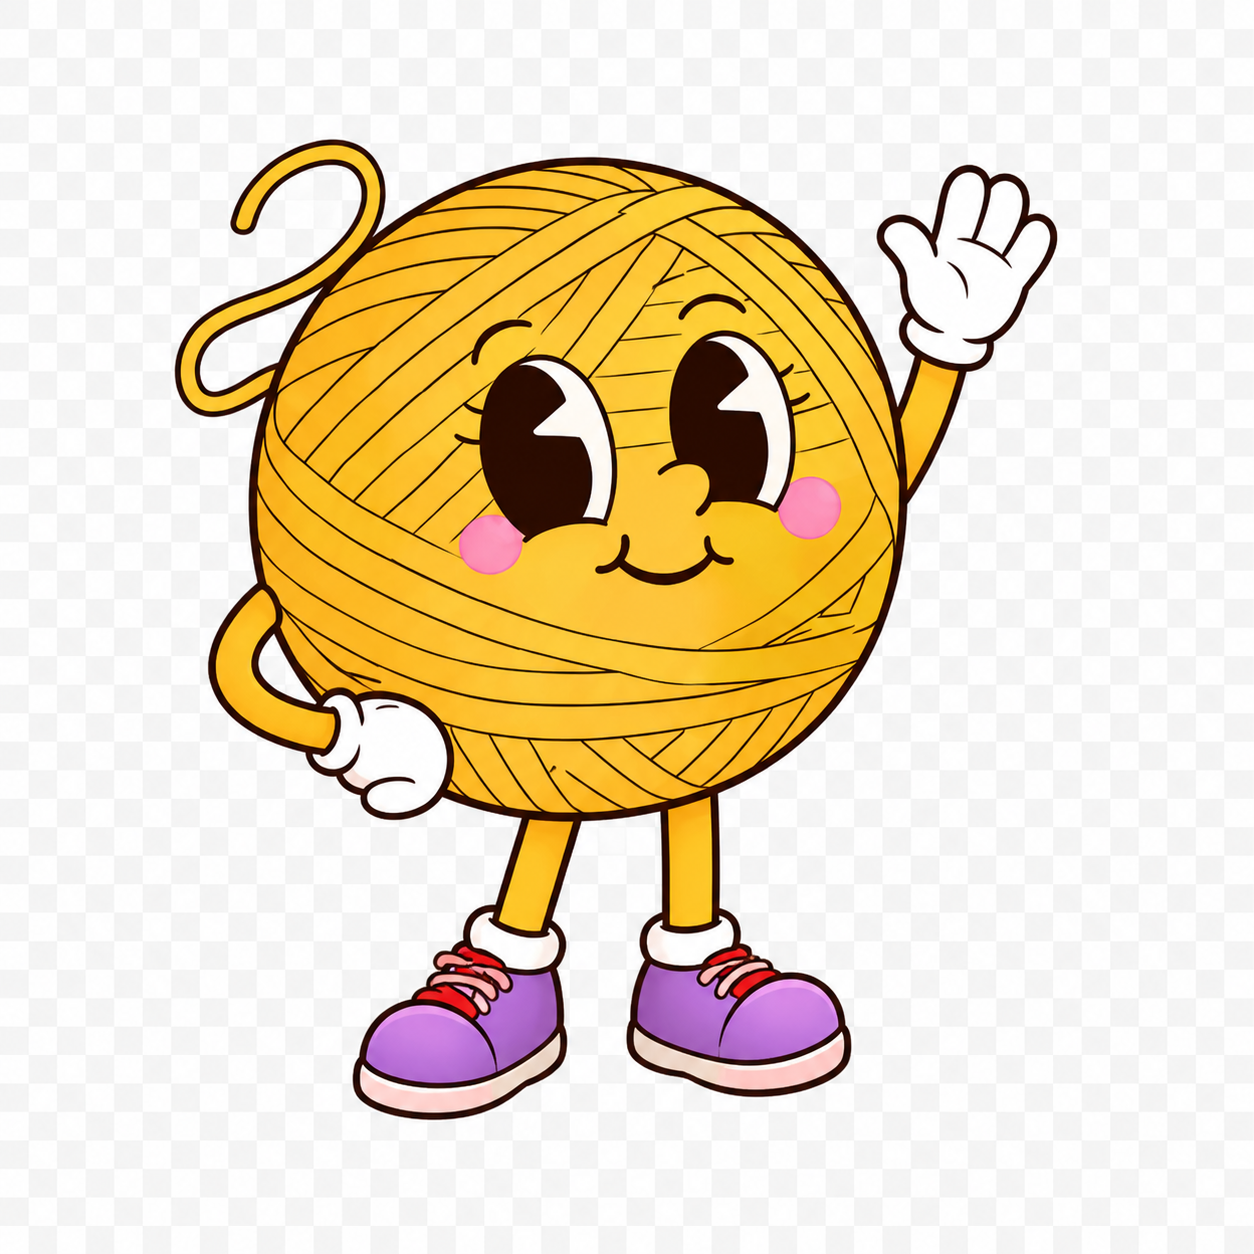
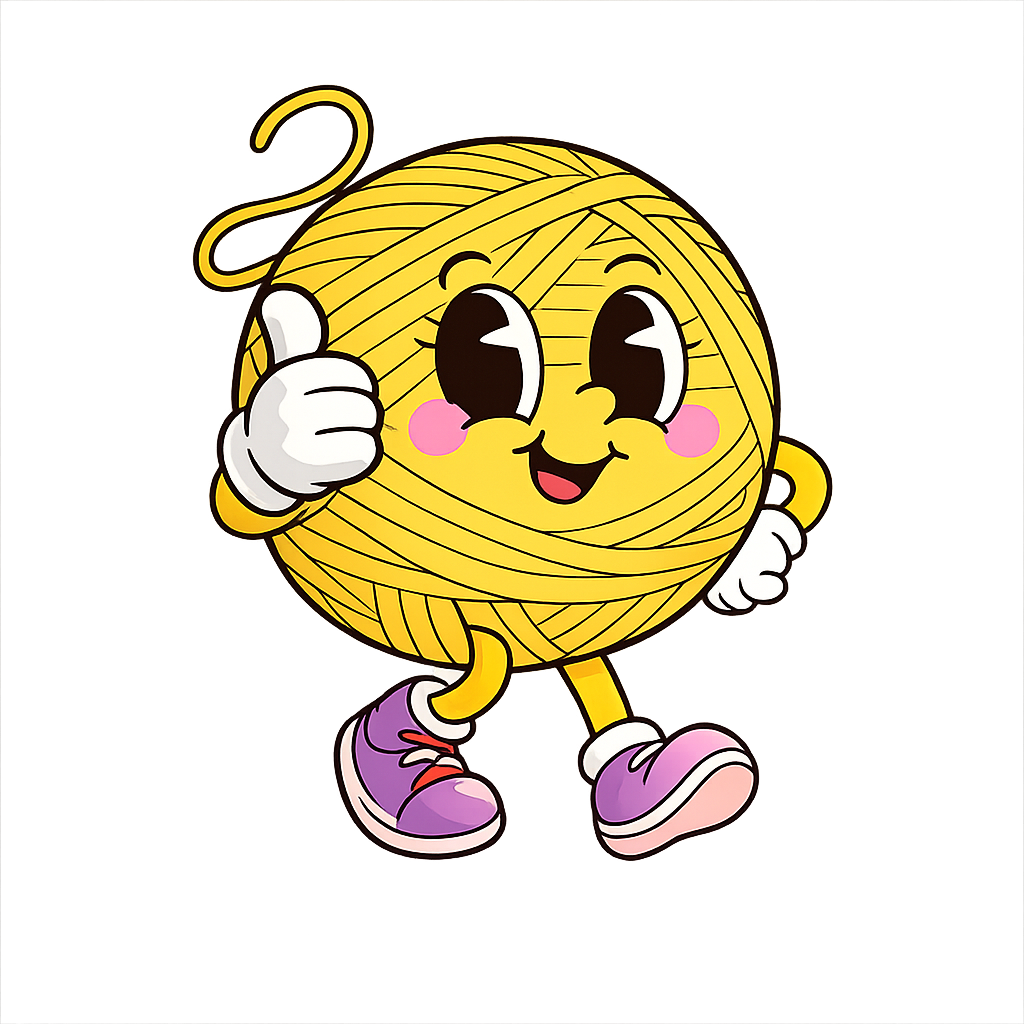
fix

Changed region(s): [[0.125, 0.0625, 0.8438, 0.9062], [0.7812, 0.25, 0.8125, 0.2812]]

diff --git a/src/app/(public)/contacto/page.tsx b/src/app/(public)/contacto/page.tsx
@@ -8,11 +8,10 @@ export default function ContactPage() {
         <div className="flex flex-col min-h-screen text-[#344054]">
             {/* HERO */}
             <section className="relative overflow-hidden pt-12 pb-20 md:pt-20 md:pb-28">
-                {/* Diagonal geometric background */}
-                <div 
-                    className="absolute inset-0 z-0" 
-                    style={{ background: 'linear-gradient(105deg, #F58EAA 50%, #E3B4FF 50.1%)' }}
-                ></div>
+                {/* Background Image */}
+                <div className="absolute inset-0 z-0">
+                    <Image src="/images/home-bg.png" alt="Fondo" fill className="object-cover object-center" priority />
+                </div>
 
                 {/* Sparkles */}
                 <div className="absolute top-10 left-[10%] text-white opacity-80">
@@ -42,7 +41,7 @@ export default function ContactPage() {
                                     href="https://wa.me/123456789" 
                                     className="inline-flex items-center justify-center gap-2 bg-[#E4072F] text-white px-6 py-3 rounded-full font-bold transition-transform hover:scale-105 shadow-md"
                                 >
-                                    <svg xmlns="http://www.w3.org/2000/svg" className="h-5 w-5" fill="currentColor" viewBox="0 0 24 24"><path d="M.057 24l1.687-6.163c-1.041-1.804-1.588-3.849-1.587-5.946.003-6.556 5.338-11.891 11.893-11.891 3.181.001 6.167 1.24 8.413 3.488 2.245 2.248 3.481 5.236 3.48 8.414-.003 6.557-5.338 11.892-11.893 11.892-1.99-.001-3.951-.5-5.688-1.448l-6.305 1.654zm6.597-3.807c1.676.995 3.276 1.591 5.392 1.592 5.448 0 9.886-4.438 9.889-9.886.002-5.462-4.415-9.89-9.881-9.892-5.452 0-9.887 4.434-9.889 9.884 0 2.225.569 3.846 1.74 5.865l-.997 3.637 3.746-.983zm11.567-7.647c-.074-.123-.272-.198-.57-.347-.297-.149-1.758-.868-2.031-.967-.272-.099-.47-.149-.669.149-.198.297-.768.967-.941 1.165-.173.198-.347.223-.644.074-.297-.149-1.255-.462-2.39-1.475-.883-.788-1.48-1.761-1.653-2.059-.173-.297-.018-.458.13-.606.134-.133.298-.347.446-.52.149-.174.198-.298.298-.497.099-.198.05-.372-.025-.521-.075-.148-.669-1.611-.916-2.206-.242-.579-.487-.501-.669-.51l-.57-.01c-.198 0-.52.074-.792.372s-1.04 1.016-1.04 2.479 1.065 2.876 1.213 3.074c.149.198 2.095 3.2 5.076 4.487.709.306 1.263.489 1.694.626.712.226 1.36.194 1.872.118.571-.085 1.758-.719 2.006-1.413.248-.694.248-1.289.173-1.413z" /></svg>
+                                    <svg xmlns="http://www.w3.org/2000/svg" className="h-5 w-5" fill="currentColor" viewBox="0 0 24 24"><path d="M17.472 14.382c-.297-.149-1.758-.867-2.03-.967-.273-.099-.471-.148-.67.15-.197.297-.767.966-.94 1.164-.173.199-.347.223-.644.075-.297-.15-1.255-.463-2.39-1.475-.883-.788-1.48-1.761-1.653-2.059-.173-.297-.018-.458.13-.606.134-.133.298-.347.446-.52.149-.174.198-.298.298-.497.099-.198.05-.371-.025-.52-.075-.149-.669-1.612-.916-2.207-.242-.579-.487-.5-.669-.51-.173-.008-.371-.01-.57-.01-.198 0-.52.074-.792.372-.272.297-1.04 1.016-1.04 2.479 0 1.462 1.065 2.875 1.213 3.074.149.198 2.096 3.2 5.077 4.487.709.306 1.262.489 1.694.625.712.227 1.36.195 1.871.118.571-.085 1.758-.719 2.006-1.413.248-.694.248-1.289.173-1.413-.074-.124-.272-.198-.57-.347m-5.421 7.403h-.004a9.87 9.87 0 01-5.031-1.378l-.361-.214-3.741.982.998-3.648-.235-.374a9.86 9.86 0 01-1.51-5.26c.001-5.45 4.436-9.884 9.888-9.884 2.64 0 5.122 1.03 6.988 2.898a9.825 9.825 0 012.893 6.994c-.003 5.45-4.437 9.884-9.885 9.884m8.413-18.297A11.815 11.815 0 0012.05 0C5.495 0 .16 5.335.157 11.892c0 2.096.547 4.142 1.588 5.945L.057 24l6.305-1.654a11.882 11.882 0 005.683 1.448h.005c6.554 0 11.89-5.335 11.893-11.893a11.821 11.821 0 00-3.48-8.413z" /></svg>
                                     Escribir por WhatsApp
                                 </a>
                                 <a 
@@ -98,12 +97,12 @@ export default function ContactPage() {
 
                     <div className="flex flex-col md:flex-row justify-center gap-8 max-w-4xl mx-auto">
                         {/* WhatsApp Card */}
-                        <div className="bg-white border border-[#F3D7E4] rounded-[28px] p-8 md:p-10 shadow-sm flex flex-col items-center text-center flex-1 relative overflow-hidden group">
+                        <div className="bg-white border border-[#F3D7E4] rounded-[28px] p-8 md:p-10 shadow-sm flex flex-col items-center text-center flex-1 relative group mt-4 md:mt-0">
                             {/* Decorative Tape */}
-                            <div className="absolute top-0 left-1/2 -translate-x-1/2 -translate-y-1/2 w-16 h-6 bg-[#F58EAA] opacity-50 transform -rotate-2"></div>
+                            <div className="absolute -top-3 left-1/2 -translate-x-1/2 w-16 h-6 bg-[#F58EAA] opacity-50 transform -rotate-2 z-10"></div>
                             
                             <div className="w-16 h-16 bg-[#E4072F] rounded-full flex items-center justify-center text-white mb-6 group-hover:scale-110 transition-transform">
-                                <svg xmlns="http://www.w3.org/2000/svg" className="h-8 w-8" fill="currentColor" viewBox="0 0 24 24"><path d="M.057 24l1.687-6.163c-1.041-1.804-1.588-3.849-1.587-5.946.003-6.556 5.338-11.891 11.893-11.891 3.181.001 6.167 1.24 8.413 3.488 2.245 2.248 3.481 5.236 3.48 8.414-.003 6.557-5.338 11.892-11.893 11.892-1.99-.001-3.951-.5-5.688-1.448l-6.305 1.654zm6.597-3.807c1.676.995 3.276 1.591 5.392 1.592 5.448 0 9.886-4.438 9.889-9.886.002-5.462-4.415-9.89-9.881-9.892-5.452 0-9.887 4.434-9.889 9.884 0 2.225.569 3.846 1.74 5.865l-.997 3.637 3.746-.983zm11.567-7.647c-.074-.123-.272-.198-.57-.347-.297-.149-1.758-.868-2.031-.967-.272-.099-.47-.149-.669.149-.198.297-.768.967-.941 1.165-.173.198-.347.223-.644.074-.297-.149-1.255-.462-2.39-1.475-.883-.788-1.48-1.761-1.653-2.059-.173-.297-.018-.458.13-.606.134-.133.298-.347.446-.52.149-.174.198-.298.298-.497.099-.198.05-.372-.025-.521-.075-.148-.669-1.611-.916-2.206-.242-.579-.487-.501-.669-.51l-.57-.01c-.198 0-.52.074-.792.372s-1.04 1.016-1.04 2.479 1.065 2.876 1.213 3.074c.149.198 2.095 3.2 5.076 4.487.709.306 1.263.489 1.694.626.712.226 1.36.194 1.872.118.571-.085 1.758-.719 2.006-1.413.248-.694.248-1.289.173-1.413z" /></svg>
+                                <svg xmlns="http://www.w3.org/2000/svg" className="h-8 w-8" fill="currentColor" viewBox="0 0 24 24"><path d="M17.472 14.382c-.297-.149-1.758-.867-2.03-.967-.273-.099-.471-.148-.67.15-.197.297-.767.966-.94 1.164-.173.199-.347.223-.644.075-.297-.15-1.255-.463-2.39-1.475-.883-.788-1.48-1.761-1.653-2.059-.173-.297-.018-.458.13-.606.134-.133.298-.347.446-.52.149-.174.198-.298.298-.497.099-.198.05-.371-.025-.52-.075-.149-.669-1.612-.916-2.207-.242-.579-.487-.5-.669-.51-.173-.008-.371-.01-.57-.01-.198 0-.52.074-.792.372-.272.297-1.04 1.016-1.04 2.479 0 1.462 1.065 2.875 1.213 3.074.149.198 2.096 3.2 5.077 4.487.709.306 1.262.489 1.694.625.712.227 1.36.195 1.871.118.571-.085 1.758-.719 2.006-1.413.248-.694.248-1.289.173-1.413-.074-.124-.272-.198-.57-.347m-5.421 7.403h-.004a9.87 9.87 0 01-5.031-1.378l-.361-.214-3.741.982.998-3.648-.235-.374a9.86 9.86 0 01-1.51-5.26c.001-5.45 4.436-9.884 9.888-9.884 2.64 0 5.122 1.03 6.988 2.898a9.825 9.825 0 012.893 6.994c-.003 5.45-4.437 9.884-9.885 9.884m8.413-18.297A11.815 11.815 0 0012.05 0C5.495 0 .16 5.335.157 11.892c0 2.096.547 4.142 1.588 5.945L.057 24l6.305-1.654a11.882 11.882 0 005.683 1.448h.005c6.554 0 11.89-5.335 11.893-11.893a11.821 11.821 0 00-3.48-8.413z" /></svg>
                             </div>
                             <h3 className="text-2xl font-bold text-[#12192C] mb-3">WhatsApp</h3>
                             <p className="text-[#7A7F8C] mb-8 leading-relaxed">
@@ -115,9 +114,9 @@ export default function ContactPage() {
                         </div>
 
                         {/* Instagram Card */}
-                        <div className="bg-white border border-[#F3D7E4] rounded-[28px] p-8 md:p-10 shadow-sm flex flex-col items-center text-center flex-1 relative overflow-hidden group">
+                        <div className="bg-white border border-[#F3D7E4] rounded-[28px] p-8 md:p-10 shadow-sm flex flex-col items-center text-center flex-1 relative group mt-4 md:mt-0">
                             {/* Decorative Tape */}
-                            <div className="absolute top-0 left-1/2 -translate-x-1/2 -translate-y-1/2 w-16 h-6 bg-[#E3B4FF] opacity-50 transform rotate-2"></div>
+                            <div className="absolute -top-3 left-1/2 -translate-x-1/2 w-16 h-6 bg-[#E3B4FF] opacity-50 transform rotate-2 z-10"></div>
                             
                             <div className="w-16 h-16 bg-[#E4072F] rounded-full flex items-center justify-center text-white mb-6 group-hover:scale-110 transition-transform">
                                 <svg xmlns="http://www.w3.org/2000/svg" className="h-8 w-8" fill="currentColor" viewBox="0 0 24 24"><path d="M12 2.163c3.204 0 3.584.012 4.85.07 3.252.148 4.771 1.691 4.919 4.919.058 1.265.069 1.645.069 4.849 0 3.205-.012 3.584-.069 4.849-.149 3.225-1.664 4.771-4.919 4.919-1.266.058-1.644.07-4.85.07-3.204 0-3.584-.012-4.849-.07-3.26-.149-4.771-1.699-4.919-4.92-.058-1.265-.07-1.644-.07-4.849 0-3.204.013-3.583.07-4.849.149-3.227 1.664-4.771 4.919-4.919 1.266-.057 1.645-.069 4.849-.069zm0-2.163c-3.259 0-3.667.014-4.947.072-4.358.2-6.78 2.618-6.98 6.98-.059 1.281-.073 1.689-.073 4.948 0 3.259.014 3.668.072 4.948.2 4.358 2.618 6.78 6.98 6.98 1.281.058 1.689.072 4.948.072 3.259 0 3.668-.014 4.948-.072 4.354-.2 6.782-2.618 6.979-6.98.059-1.28.073-1.689.073-4.948 0-3.259-.014-3.667-.072-4.947-.196-4.354-2.617-6.78-6.979-6.98-1.281-.059-1.69-.073-4.949-.073zm0 5.838c-3.403 0-6.162 2.759-6.162 6.162s2.759 6.163 6.162 6.163 6.162-2.759 6.162-6.163c0-3.403-2.759-6.162-6.162-6.162zm0 10.162c-2.209 0-4-1.79-4-4 0-2.209 1.791-4 4-4s4 1.791 4 4c0 2.21-1.791 4-4 4zm6.406-11.845c-.796 0-1.441.645-1.441 1.44s.645 1.44 1.441 1.44c.795 0 1.439-.645 1.439-1.44s-.644-1.44-1.439-1.44z"/></svg>
@@ -146,23 +145,27 @@ export default function ContactPage() {
 
                     <div className="flex flex-col lg:flex-row gap-8 max-w-5xl mx-auto">
                         {/* Checklist */}
-                        <div className="bg-white border border-[#F3D7E4] rounded-[28px] p-8 md:p-10 shadow-sm flex-1 relative overflow-hidden">
-                            <h3 className="text-xl font-bold text-[#12192C] mb-6">Podés escribirnos para:</h3>
-                            <ul className="space-y-4 relative z-10">
-                                {['Pedidos', 'Consultas', 'Disponibilidad', 'Personalizaciones', 'Coordinación de compra'].map((item, i) => (
-                                    <li key={i} className="flex items-center gap-3">
-                                        <div className="w-6 h-6 bg-[#E4072F] rounded-full flex items-center justify-center flex-shrink-0">
-                                            <svg className="w-4 h-4 text-white" fill="none" viewBox="0 0 24 24" stroke="currentColor">
-                                                <path strokeLinecap="round" strokeLinejoin="round" strokeWidth={3} d="M5 13l4 4L19 7" />
-                                            </svg>
-                                        </div>
-                                        <span className="text-[#344054] font-medium">{item}</span>
-                                    </li>
-                                ))}
-                            </ul>
-                            
-                            {/* Subtle texture in corner */}
-                            <div className="absolute -bottom-10 -right-10 opacity-30 w-48 h-48 pointer-events-none rounded-full blur-xl bg-[#F58EAA]"></div>
+                        <div className="bg-white border border-[#F3D7E4] rounded-[28px] p-8 md:p-10 shadow-sm flex-1 relative overflow-hidden flex flex-col justify-center">
+                            {/* Background Image */}
+                            <div className="absolute inset-0 z-0">
+                                <Image src="/images/fondo_card_contacto.png" alt="" fill className="object-cover object-bottom opacity-40" />
+                            </div>
+
+                            <div className="relative z-10">
+                                <h3 className="text-xl font-bold text-[#12192C] mb-6">Podés escribirnos para:</h3>
+                                <ul className="space-y-4">
+                                    {['Pedidos', 'Consultas', 'Disponibilidad', 'Personalizaciones', 'Coordinación de compra'].map((item, i) => (
+                                        <li key={i} className="flex items-center gap-3">
+                                            <div className="w-6 h-6 bg-[#E4072F] rounded-full flex items-center justify-center flex-shrink-0">
+                                                <svg className="w-4 h-4 text-white" fill="none" viewBox="0 0 24 24" stroke="currentColor">
+                                                    <path strokeLinecap="round" strokeLinejoin="round" strokeWidth={3} d="M5 13l4 4L19 7" />
+                                                </svg>
+                                            </div>
+                                            <span className="text-[#344054] font-medium">{item}</span>
+                                        </li>
+                                    ))}
+                                </ul>
+                            </div>
                         </div>
 
                         {/* FAQ */}
@@ -174,12 +177,11 @@ export default function ContactPage() {
                                     { q: '¿Hacen pedidos personalizados?', a: 'Sí, podés escribirnos y contarnos tu idea.' },
                                     { q: '¿Dónde veo novedades?', a: 'En Instagram compartimos trabajos recientes y novedades.' }
                                 ].map((item, i) => (
-                                    <div key={i} className="bg-white border-2 border-[#111111] rounded-[16px] p-4 shadow-[3px_3px_0px_0px_rgba(17,17,17,1)] flex gap-4 cursor-pointer hover:-translate-y-1 transition-transform">
+                                    <div key={i} className="bg-white border-2 border-[#111111] rounded-[16px] p-4 shadow-[3px_3px_0px_0px_rgba(17,17,17,1)] flex gap-4">
                                         <div className="flex-1">
                                             <h4 className="font-bold text-[#12192C] mb-1">{item.q}</h4>
                                             <p className="text-sm text-[#7A7F8C] leading-snug">{item.a}</p>
                                         </div>
-                                        <div className="flex-shrink-0 text-[#E4072F] font-bold text-xl pt-1">+</div>
                                     </div>
                                 ))}
                             </div>
@@ -189,7 +191,7 @@ export default function ContactPage() {
             </div>
 
             {/* CTA FINAL */}
-            <section className="relative overflow-hidden bg-[#E3B4FF] py-16 flex items-center justify-center border-t border-[#F3D7E4]">
+            <section className="relative overflow-hidden bg-[#E3B4FF] py-10 md:py-12 flex items-center justify-center border-t border-[#F3D7E4]">
                 {/* Diagonal blocks */}
                 <div 
                     className="absolute inset-0 z-0" 
@@ -204,25 +206,27 @@ export default function ContactPage() {
                     <svg width="20" height="20" viewBox="0 0 24 24" fill="currentColor"><path d="M12 0l2 8 8 2-8 2-2 8-2-8-8-2 8-2z"/></svg>
                 </div>
 
-                <div className="container mx-auto px-4 relative z-10 flex flex-col md:flex-row items-center justify-center gap-8 md:gap-12">
-                    <div className="w-32 md:w-40 flex-shrink-0 relative">
+                <div className="container mx-auto px-4 relative z-10 flex flex-col md:flex-row items-center justify-center gap-6 md:gap-8">
+                    <div className="w-24 md:w-32 flex-shrink-0 relative">
                         <Image src="/images/Ricky_phone.png" alt="Ricky en el teléfono" width={200} height={200} className="w-full h-auto drop-shadow-lg" />
                     </div>
                     
-                    <div className="bg-white border-[4px] border-[#111111] rounded-[24px] p-6 md:p-8 shadow-[6px_6px_0px_0px_rgba(17,17,17,1)] max-w-md text-center relative mt-6 md:mt-0">
+                    <div className="bg-white border-[4px] border-[#111111] rounded-[24px] p-6 shadow-[6px_6px_0px_0px_rgba(17,17,17,1)] w-full max-w-2xl text-left relative flex flex-col md:flex-row items-center justify-between gap-6">
                         {/* Tail border */}
                         <div className="absolute -top-[12px] left-1/2 -translate-x-1/2 md:top-1/2 md:-translate-y-1/2 md:-left-[12px] md:translate-x-0 w-6 h-6 border-t-[4px] border-l-[4px] border-[#111111] transform rotate-45 md:-rotate-45 z-[-1]"></div>
                         {/* Tail background */}
                         <div className="absolute -top-[4px] left-1/2 -translate-x-1/2 md:top-1/2 md:-translate-y-1/2 md:-left-[4px] md:translate-x-0 w-6 h-6 bg-white transform rotate-45 md:-rotate-45"></div>
 
-                        <h3 className="text-2xl font-bold text-[#12192C] mb-2">¿Tenés una idea en mente?</h3>
-                        <p className="text-[#344054] font-medium mb-6">Hablemos y creemos una pieza única para vos.</p>
+                        <div className="flex-1 text-center md:text-left">
+                            <h3 className="text-xl md:text-2xl font-bold text-[#12192C] mb-1">¿Tenés una idea en mente?</h3>
+                            <p className="text-[#344054] font-medium mb-0">Hablemos y creemos una pieza única para vos.</p>
+                        </div>
                         
                         <a 
                             href="https://wa.me/123456789" 
-                            className="inline-flex items-center justify-center gap-2 bg-[#25D366] text-white px-8 py-3 rounded-full font-bold transition-transform hover:scale-105 shadow-md w-full sm:w-auto"
+                            className="inline-flex items-center justify-center gap-2 bg-[#25D366] text-white px-6 py-3 rounded-full font-bold transition-transform hover:scale-105 shadow-md flex-shrink-0"
                         >
-                            <svg xmlns="http://www.w3.org/2000/svg" className="h-5 w-5" fill="currentColor" viewBox="0 0 24 24"><path d="M.057 24l1.687-6.163c-1.041-1.804-1.588-3.849-1.587-5.946.003-6.556 5.338-11.891 11.893-11.891 3.181.001 6.167 1.24 8.413 3.488 2.245 2.248 3.481 5.236 3.48 8.414-.003 6.557-5.338 11.892-11.893 11.892-1.99-.001-3.951-.5-5.688-1.448l-6.305 1.654zm6.597-3.807c1.676.995 3.276 1.591 5.392 1.592 5.448 0 9.886-4.438 9.889-9.886.002-5.462-4.415-9.89-9.881-9.892-5.452 0-9.887 4.434-9.889 9.884 0 2.225.569 3.846 1.74 5.865l-.997 3.637 3.746-.983zm11.567-7.647c-.074-.123-.272-.198-.57-.347-.297-.149-1.758-.868-2.031-.967-.272-.099-.47-.149-.669.149-.198.297-.768.967-.941 1.165-.173.198-.347.223-.644.074-.297-.149-1.255-.462-2.39-1.475-.883-.788-1.48-1.761-1.653-2.059-.173-.297-.018-.458.13-.606.134-.133.298-.347.446-.52.149-.174.198-.298.298-.497.099-.198.05-.372-.025-.521-.075-.148-.669-1.611-.916-2.206-.242-.579-.487-.501-.669-.51l-.57-.01c-.198 0-.52.074-.792.372s-1.04 1.016-1.04 2.479 1.065 2.876 1.213 3.074c.149.198 2.095 3.2 5.076 4.487.709.306 1.263.489 1.694.626.712.226 1.36.194 1.872.118.571-.085 1.758-.719 2.006-1.413.248-.694.248-1.289.173-1.413z" /></svg>
+                            <svg xmlns="http://www.w3.org/2000/svg" className="h-5 w-5" fill="currentColor" viewBox="0 0 24 24"><path d="M17.472 14.382c-.297-.149-1.758-.867-2.03-.967-.273-.099-.471-.148-.67.15-.197.297-.767.966-.94 1.164-.173.199-.347.223-.644.075-.297-.15-1.255-.463-2.39-1.475-.883-.788-1.48-1.761-1.653-2.059-.173-.297-.018-.458.13-.606.134-.133.298-.347.446-.52.149-.174.198-.298.298-.497.099-.198.05-.371-.025-.52-.075-.149-.669-1.612-.916-2.207-.242-.579-.487-.5-.669-.51-.173-.008-.371-.01-.57-.01-.198 0-.52.074-.792.372-.272.297-1.04 1.016-1.04 2.479 0 1.462 1.065 2.875 1.213 3.074.149.198 2.096 3.2 5.077 4.487.709.306 1.262.489 1.694.625.712.227 1.36.195 1.871.118.571-.085 1.758-.719 2.006-1.413.248-.694.248-1.289.173-1.413-.074-.124-.272-.198-.57-.347m-5.421 7.403h-.004a9.87 9.87 0 01-5.031-1.378l-.361-.214-3.741.982.998-3.648-.235-.374a9.86 9.86 0 01-1.51-5.26c.001-5.45 4.436-9.884 9.888-9.884 2.64 0 5.122 1.03 6.988 2.898a9.825 9.825 0 012.893 6.994c-.003 5.45-4.437 9.884-9.885 9.884m8.413-18.297A11.815 11.815 0 0012.05 0C5.495 0 .16 5.335.157 11.892c0 2.096.547 4.142 1.588 5.945L.057 24l6.305-1.654a11.882 11.882 0 005.683 1.448h.005c6.554 0 11.89-5.335 11.893-11.893a11.821 11.821 0 00-3.48-8.413z" /></svg>
                             Hablemos por WhatsApp
                         </a>
                     </div>
